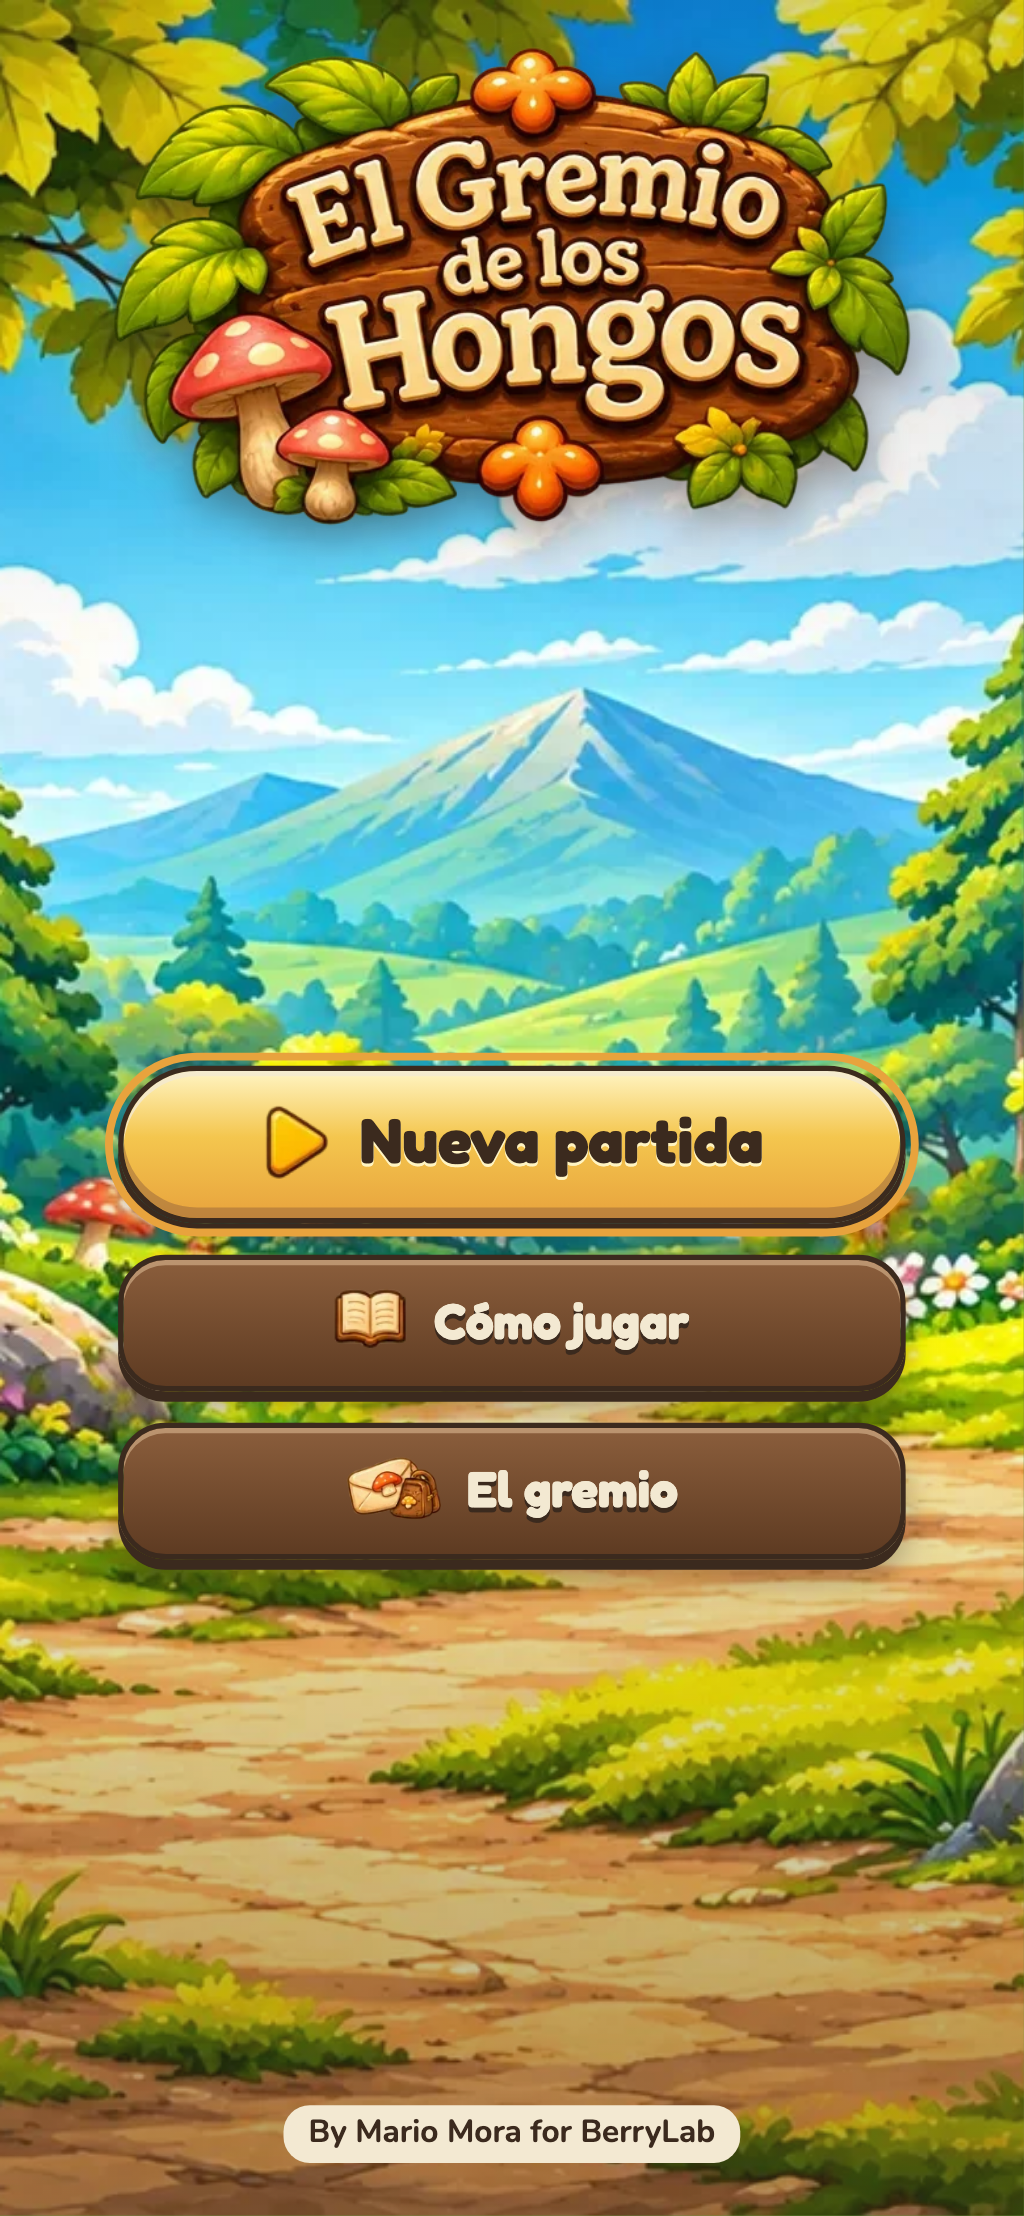
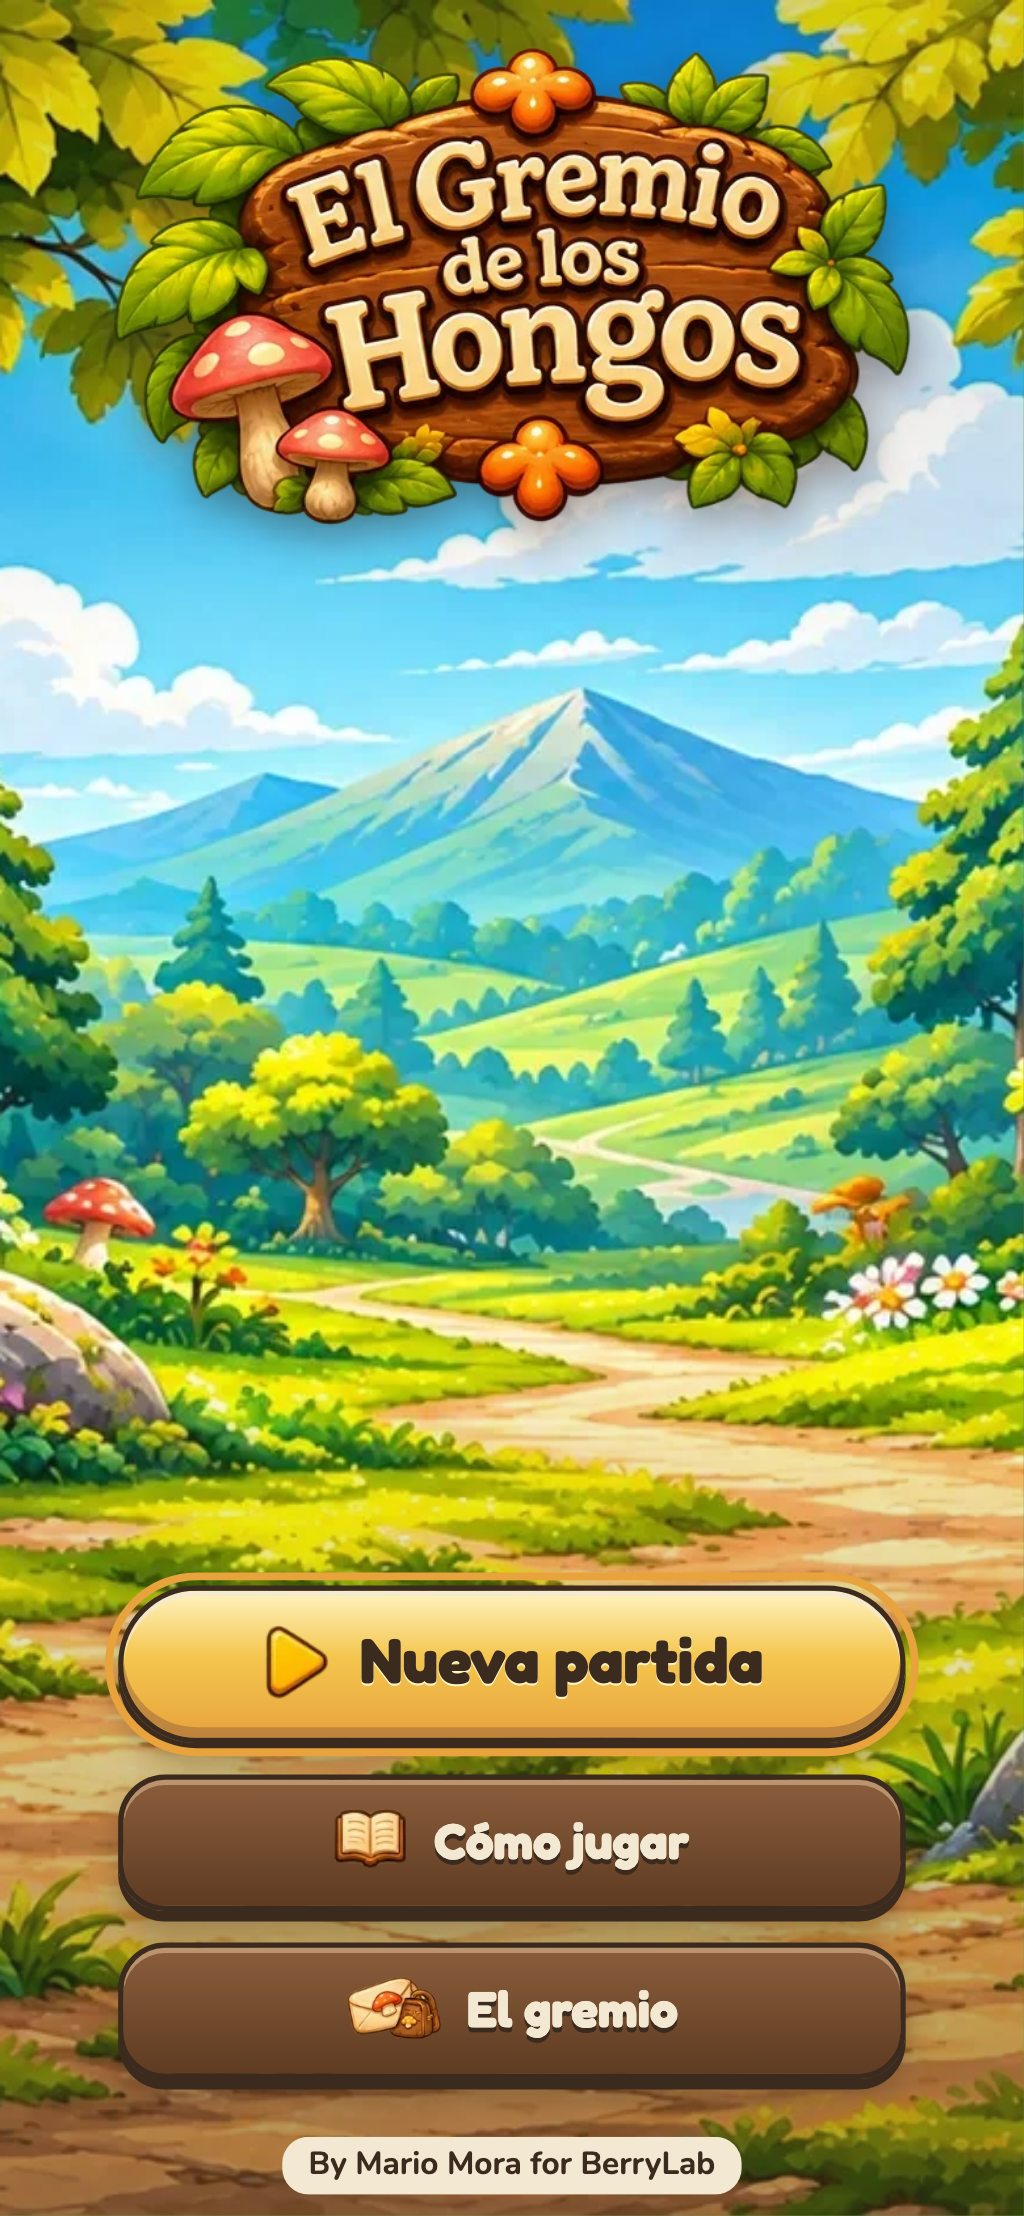
feat(021): firma fija abajo con un margen pequeño
«By Mario Mora for BerryLab» queda fija al borde inferior de la portada,
centrada, a max(8px, área segura). La portada reserva 28 px abajo para
que el menú no quede debajo. La prueba de humo comprueba la distancia al
borde (8–12 px), el centrado, el contraste y que no haya scroll.

diff --git a/src/styles.css b/src/styles.css
@@ -690,12 +690,28 @@ button { font: inherit; color: inherit; }
 .menu-btn__icon--book { background-image: var(--art-book); }
 .menu-btn__icon--guild { background-image: var(--art-recruit); flex-basis: 36px; }
 /* Portada */
-.title { width: min(420px, 100%); min-height: 100%; display: flex; flex-direction: column; align-items: center; justify-content: space-between; gap: 12px; }
+.title { width: min(420px, 100%); min-height: 100%; display: flex; flex-direction: column; align-items: center; justify-content: space-between; gap: 12px; padding-bottom: var(--credit-room); }
 .title__logo { margin: 4px 0 0; width: min(330px, 86%); }
 .title__logo-img { width: 100%; height: auto; display: block; filter: drop-shadow(0 6px 8px color-mix(in srgb, var(--ink) 45%, transparent)); }
 .title__menu { width: min(300px, 100%); display: grid; gap: 12px; margin-bottom: 8px; }
-/* Firma (020): letra pequeña sobre pergamino sólido, así el contraste no depende del fondo pintado (Tinta/Pergamino ≈ 11:1). */
-.title__credit { margin: -4px 0 4px; padding: 3px 10px; font-size: 12px; font-weight: 700; line-height: 1.3; color: var(--ink); background: var(--paper); border-radius: 10px; }
+/* Firma (020): letra pequeña sobre pergamino sólido, así el contraste no depende del fondo pintado (Tinta/Pergamino ≈ 11:1).
+   Fija abajo y centrada con un margen pequeño (021); la portada le reserva `--credit-room` para que no tape el menú. */
+.screen { --credit-room: 28px; }
+.title__credit {
+  position: fixed;
+  left: 50%;
+  bottom: max(8px, env(safe-area-inset-bottom));
+  transform: translateX(-50%);
+  margin: 0;
+  padding: 3px 10px;
+  font-size: 12px;
+  font-weight: 700;
+  line-height: 1.3;
+  white-space: nowrap;
+  color: var(--ink);
+  background: var(--paper);
+  border-radius: 10px;
+}
 /* Cómo jugar */
 .howto { display: grid; gap: 14px; }
 .howto__card {
@@ -824,7 +840,6 @@ button { font: inherit; color: inherit; }
   .title { display: grid; grid-template-columns: 1fr minmax(240px, 300px); grid-template-rows: auto; align-content: center; align-items: center; column-gap: 24px; row-gap: 4px; width: min(760px, 100%); }
   .title__logo { grid-column: 1; width: min(300px, 100%); justify-self: center; }
   .title__menu { grid-column: 2; margin: 0; }
-  .title__credit { grid-column: 2; justify-self: center; margin: 4px 0 0; }
   .screen__panel { width: min(760px, 100%); gap: 8px; }
   .screen__head { min-height: 48px; }
   .howto { grid-template-columns: minmax(0, 1.25fr) minmax(0, 1fr); grid-template-rows: 1fr auto; column-gap: 16px; row-gap: 10px; align-items: center; }

diff --git a/tests/smoke/board.spec.ts b/tests/smoke/board.spec.ts
@@ -607,7 +607,7 @@ test('Puntaje: cronómetro que se pausa con una carta, carta de victoria con est
   await ctx.close();
 });
 
-test('Portada: crédito del autor en letra pequeña, con contraste ≥ 4,5:1 y sin tapar el menú', async ({ page }, info) => {
+test('Portada: crédito del autor fijo abajo, en letra pequeña, con contraste ≥ 4,5:1 y sin tapar el menú', async ({ page }, info) => {
   await page.goto('/');
   const credit = page.locator('#screen .title__credit');
   await expect(credit).toHaveText('By Mario Mora for BerryLab');
@@ -627,17 +627,21 @@ test('Portada: crédito del autor en letra pequeña, con contraste ≥ 4,5:1 y s
   expect(ratio.ratio).toBeGreaterThanOrEqual(4.5);
   expect(ratio.size).toBeLessThanOrEqual(12);
   expect(ratio.opaque).toBe(true);
-  // No se superpone al menú ni al logo, y entra en la ventana.
+  // Fija abajo y centrada, con un margen pequeño (021); no se superpone al menú ni al logo.
   const box = (await credit.boundingBox())!;
   const vp = page.viewportSize()!;
-  expect(box.y + box.height).toBeLessThanOrEqual(vp.height);
+  const gap = vp.height - (box.y + box.height);
+  expect(gap).toBeGreaterThanOrEqual(8);
+  expect(gap).toBeLessThanOrEqual(12);
+  expect(Math.abs(box.x + box.width / 2 - vp.width / 2)).toBeLessThanOrEqual(2);
+  expect(await page.locator('#screen').evaluate((n) => n.scrollHeight - n.clientHeight)).toBeLessThanOrEqual(0);
   for (const sel of ['.title__menu', '.title__logo']) {
     const o = (await page.locator(`#screen ${sel}`).boundingBox())!;
     const overlap = box.x < o.x + o.width && o.x < box.x + box.width && box.y < o.y + o.height && o.y < box.y + box.height;
     expect(overlap, sel).toBe(false);
   }
   await noScrollNoZoom(page);
-  if (info.project.name === 'vertical-390x844' || info.project.name === 'horizontal-844x390') await page.screenshot({ path: `docs/screenshots/020-credito-${info.project.name}.png` });
+  if (info.project.name === 'vertical-390x844' || info.project.name === 'horizontal-844x390') await page.screenshot({ path: `docs/screenshots/021-credito-fijo-${info.project.name}.png` });
 });
 
 test('Niveles: Elige tu claro con teclado, Ancestral sin ★, árbol marcado, escarcha y Jugar de nuevo con el mismo nivel', async ({ page }, info) => {

diff --git a/openspec/specs/title-screens/spec.md b/openspec/specs/title-screens/spec.md
@@ -37,16 +37,16 @@ Al abrir el juego sin `?map`, `?seed`, `?nivel` ni `?debugState`, el juego SHALL
 - THEN vuelve a la portada
 
 ### Requirement: Crédito del autor
-La portada SHALL mostrar abajo, en letra pequeña (12 px), la línea «By Mario Mora for BerryLab». El texto SHALL tener un contraste de al menos 4,5:1 con su fondo inmediato, que es sólido (no depende del fondo pintado), y no SHALL tapar el logo ni el menú en vertical ni en horizontal. La línea no es un control: no recibe el foco.
+La portada SHALL mostrar, fija al borde inferior de la pantalla y centrada, con un margen pequeño (8 px, o el área segura del teléfono si es mayor), en letra pequeña (12 px), la línea «By Mario Mora for BerryLab». El texto SHALL tener un contraste de al menos 4,5:1 con su fondo inmediato, que es sólido (no depende del fondo pintado), y no SHALL tapar el logo ni el menú en vertical ni en horizontal. La línea no es un control: no recibe el foco.
 
 #### Scenario: Ver el crédito
 - WHEN el jugador abre el sitio
-- THEN la portada muestra «By Mario Mora for BerryLab» debajo del menú
+- THEN la portada muestra «By Mario Mora for BerryLab» centrada y a 8 px del borde inferior
 - AND el contraste entre el texto y su fondo es de al menos 4,5:1
 
 #### Scenario: Portada en horizontal
 - WHEN se abre la portada a 844 × 390
-- THEN el crédito se ve completo y no se superpone al logo ni al menú, y la página no hace scroll
+- THEN el crédito sigue fijo abajo y centrado, se ve completo y no se superpone al logo ni al menú, y la página no hace scroll
 
 ### Requirement: Elige tu claro
 "Nueva partida" SHALL abrir la pantalla "Elige tu claro" con los tres niveles (Brote, Bosque y Ancestral), cada uno con su nombre, una línea que diga qué cambia y su multiplicador de puntaje. Cada nivel SHALL ser un botón de al menos 44 px de alto. El foco SHALL ir al último nivel elegido (Brote la primera vez), recordado entre visitas; si el almacenamiento falla, el foco va a Brote. Esc SHALL volver a la portada. Elegir un nivel SHALL abrir la intro la primera vez que se juega ese nivel y el tablero las demás. "Jugar de nuevo" SHALL conservar el nivel. `?nivel=brote|bosque|ancestral` SHALL entrar directo al tablero en ese nivel.

diff --git a/openspec/changes/archive/021-credit-fixed/specs/title-screens/spec.md b/openspec/changes/archive/021-credit-fixed/specs/title-screens/spec.md
@@ -1,0 +1,15 @@
+# Delta · title-screens
+
+## MODIFIED Requirements
+
+### Requirement: Crédito del autor
+La portada SHALL mostrar, fija al borde inferior de la pantalla y centrada, con un margen pequeño (8 px, o el área segura del teléfono si es mayor), en letra pequeña (12 px), la línea «By Mario Mora for BerryLab». El texto SHALL tener un contraste de al menos 4,5:1 con su fondo inmediato, que es sólido (no depende del fondo pintado), y no SHALL tapar el logo ni el menú en vertical ni en horizontal. La línea no es un control: no recibe el foco.
+
+#### Scenario: Ver el crédito
+- WHEN el jugador abre el sitio
+- THEN la portada muestra «By Mario Mora for BerryLab» centrada y a 8 px del borde inferior
+- AND el contraste entre el texto y su fondo es de al menos 4,5:1
+
+#### Scenario: Portada en horizontal
+- WHEN se abre la portada a 844 × 390
+- THEN el crédito sigue fijo abajo y centrado, se ve completo y no se superpone al logo ni al menú, y la página no hace scroll

diff --git a/openspec/changes/archive/021-credit-fixed/proposal.md b/openspec/changes/archive/021-credit-fixed/proposal.md
@@ -1,0 +1,11 @@
+# 021 · Firma fija abajo
+
+## Por qué
+Revisión del 020: la firma debe quedar anclada al borde inferior de la pantalla, con un margen pequeño, en vez de seguir el flujo de la portada (en horizontal quedaba bajo el menú, a media altura).
+
+## Qué cambia
+- «By Mario Mora for BerryLab» va fija abajo y centrada, a 8 px del borde (o del área segura del teléfono, si es mayor), en vertical y en horizontal.
+- La portada reserva ese espacio abajo para que el menú no quede debajo de la firma.
+
+## Fuera de alcance
+- Mostrar la firma en otras pantallas.

diff --git a/openspec/changes/archive/021-credit-fixed/tasks.md b/openspec/changes/archive/021-credit-fixed/tasks.md
@@ -1,0 +1,5 @@
+# Tareas · 021
+
+- [x] 1.1 `styles.css`: `.title__credit` fija abajo y centrada, a `max(8px, env(safe-area-inset-bottom))`; la portada reserva su alto abajo
+- [x] 1.2 Humo: la firma queda a ≤ 12 px del borde inferior y centrada, sin tapar el logo ni el menú, a 390 × 844, 390 × 664, 844 × 390 y escritorio; capturas
+- [x] 1.3 Spec fusionada y cambio archivado
